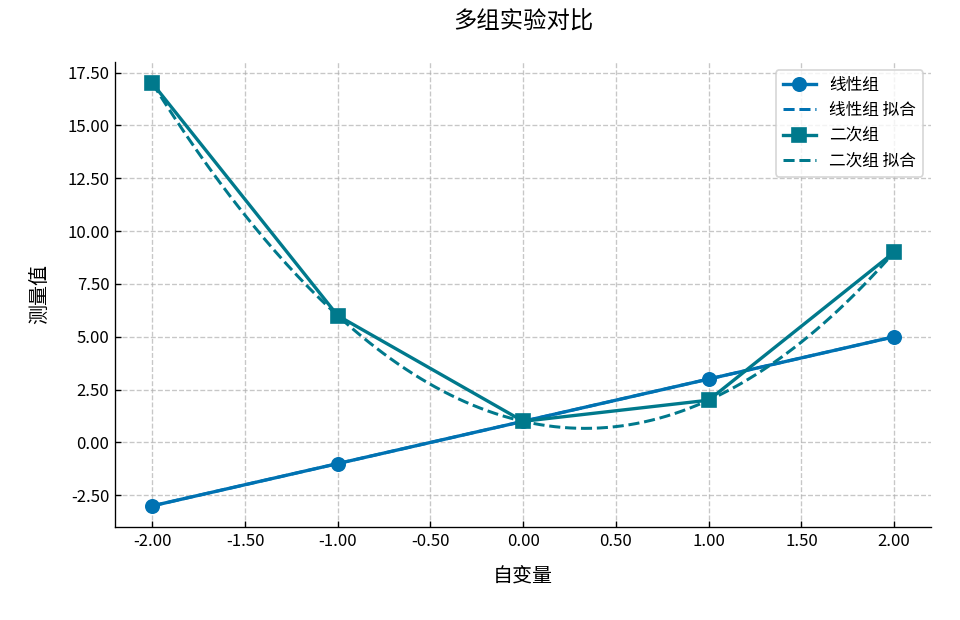
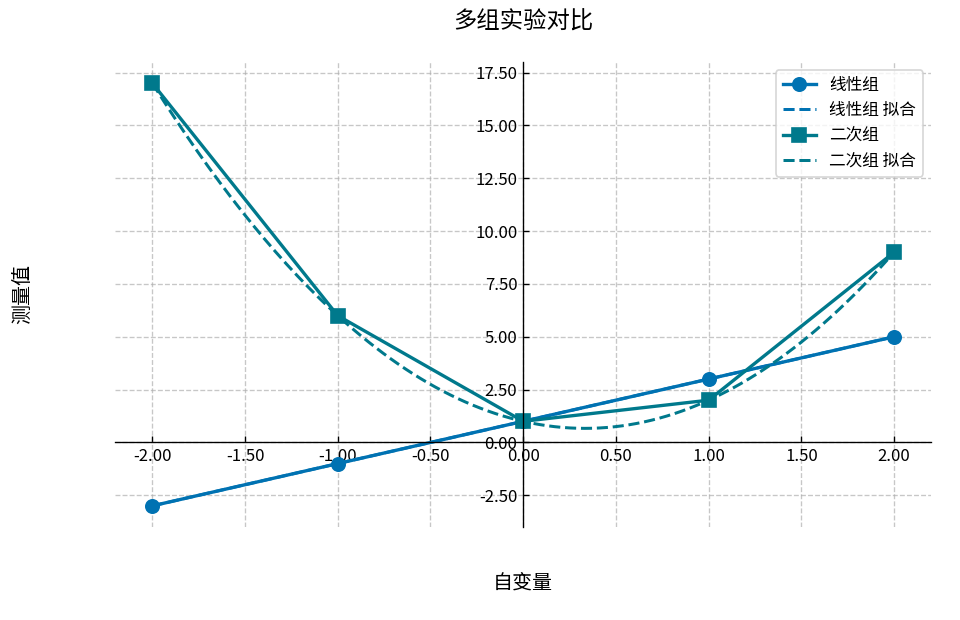
Fix axes to cross at the visible data origin

diff --git a/tests/test_plot_core_features.py b/tests/test_plot_core_features.py
@@ -15,6 +15,62 @@ from plot_core import ChartSpec, CurveSpec, parse_uncertainty_text, render_chart
 
 
 class PlotCoreFeatureTests(unittest.TestCase):
+    def test_axes_cross_at_data_origin_when_zero_is_visible(self):
+        figure = Figure(figsize=(5, 3), dpi=100)
+        axis = figure.add_subplot(111)
+        spec = ChartSpec(
+            x_values=[-1, 0, 1],
+            curves=[CurveSpec(
+                values=[-2, 0, 2],
+                label="origin",
+                color="#d62728",
+                marker="o")],
+            show_grid=False,
+            show_legend=False)
+
+        render_chart(axis, spec)
+
+        self.assertEqual(axis.spines["left"].get_position(), ("data", 0))
+        self.assertEqual(axis.spines["bottom"].get_position(), ("data", 0))
+        self.assertEqual(axis.xaxis.label.get_position(), (0.5, -0.1))
+        self.assertEqual(axis.yaxis.label.get_position(), (-0.1, 0.5))
+
+    def test_axes_remain_at_frame_edges_when_zero_is_outside_view(self):
+        figure = Figure(figsize=(5, 3), dpi=100)
+        axis = figure.add_subplot(111)
+        spec = ChartSpec(
+            x_values=[1, 2, 3],
+            curves=[CurveSpec(
+                values=[4, 5, 6],
+                label="positive range",
+                color="#1f77b4",
+                marker="s")],
+            show_grid=False,
+            show_legend=False)
+
+        render_chart(axis, spec)
+
+        self.assertEqual(axis.spines["left"].get_position(), ("outward", 0))
+        self.assertEqual(axis.spines["bottom"].get_position(), ("outward", 0))
+
+    def test_both_axes_remain_at_edges_when_only_one_zero_axis_is_visible(self):
+        figure = Figure(figsize=(5, 3), dpi=100)
+        axis = figure.add_subplot(111)
+        spec = ChartSpec(
+            x_values=[-1, 0, 1],
+            curves=[CurveSpec(
+                values=[4, 5, 6],
+                label="partial origin range",
+                color="#2ca02c",
+                marker="^")],
+            show_grid=False,
+            show_legend=False)
+
+        render_chart(axis, spec)
+
+        self.assertEqual(axis.spines["left"].get_position(), ("outward", 0))
+        self.assertEqual(axis.spines["bottom"].get_position(), ("outward", 0))
+
     def test_uncertainty_text_supports_scalar_or_point_values(self):
         self.assertEqual(parse_uncertainty_text("0.2", 3, "Y不确定度"), [0.2, 0.2, 0.2])
         self.assertEqual(parse_uncertainty_text("0.1,0.2,0.3", 3, "Y不确定度"), [0.1, 0.2, 0.3])

diff --git a/plot_core.py b/plot_core.py
@@ -335,6 +335,8 @@ def render_chart(ax, spec):
         right=0.97,
         top=0.86 if compact else 0.90,
         bottom=(0.38 if compact else 0.25) if spec.note else (0.20 if compact else 0.15))
+    ax.xaxis.set_label_coords(0.5, -0.16 if compact else -0.10)
+    ax.yaxis.set_label_coords(-0.16 if compact else -0.10, 0.5)
 
     x_min, x_max = spec.x_limits
     y_min, y_max = spec.y_limits
@@ -347,6 +349,15 @@ def render_chart(ax, spec):
     ax.tick_params(axis='y', direction=spec.y_tick_direction)
     ax.spines['top'].set_visible(False)
     ax.spines['right'].set_visible(False)
+
+    visible_x_min, visible_x_max = ax.get_xlim()
+    visible_y_min, visible_y_max = ax.get_ylim()
+    origin_is_visible = (
+        visible_x_min <= 0 <= visible_x_max
+        and visible_y_min <= 0 <= visible_y_max)
+    spine_position = ('data', 0) if origin_is_visible else ('outward', 0)
+    ax.spines['left'].set_position(spine_position)
+    ax.spines['bottom'].set_position(spine_position)
 
     if spec.show_grid:
         ax.grid(True, linestyle='--', alpha=0.7)
